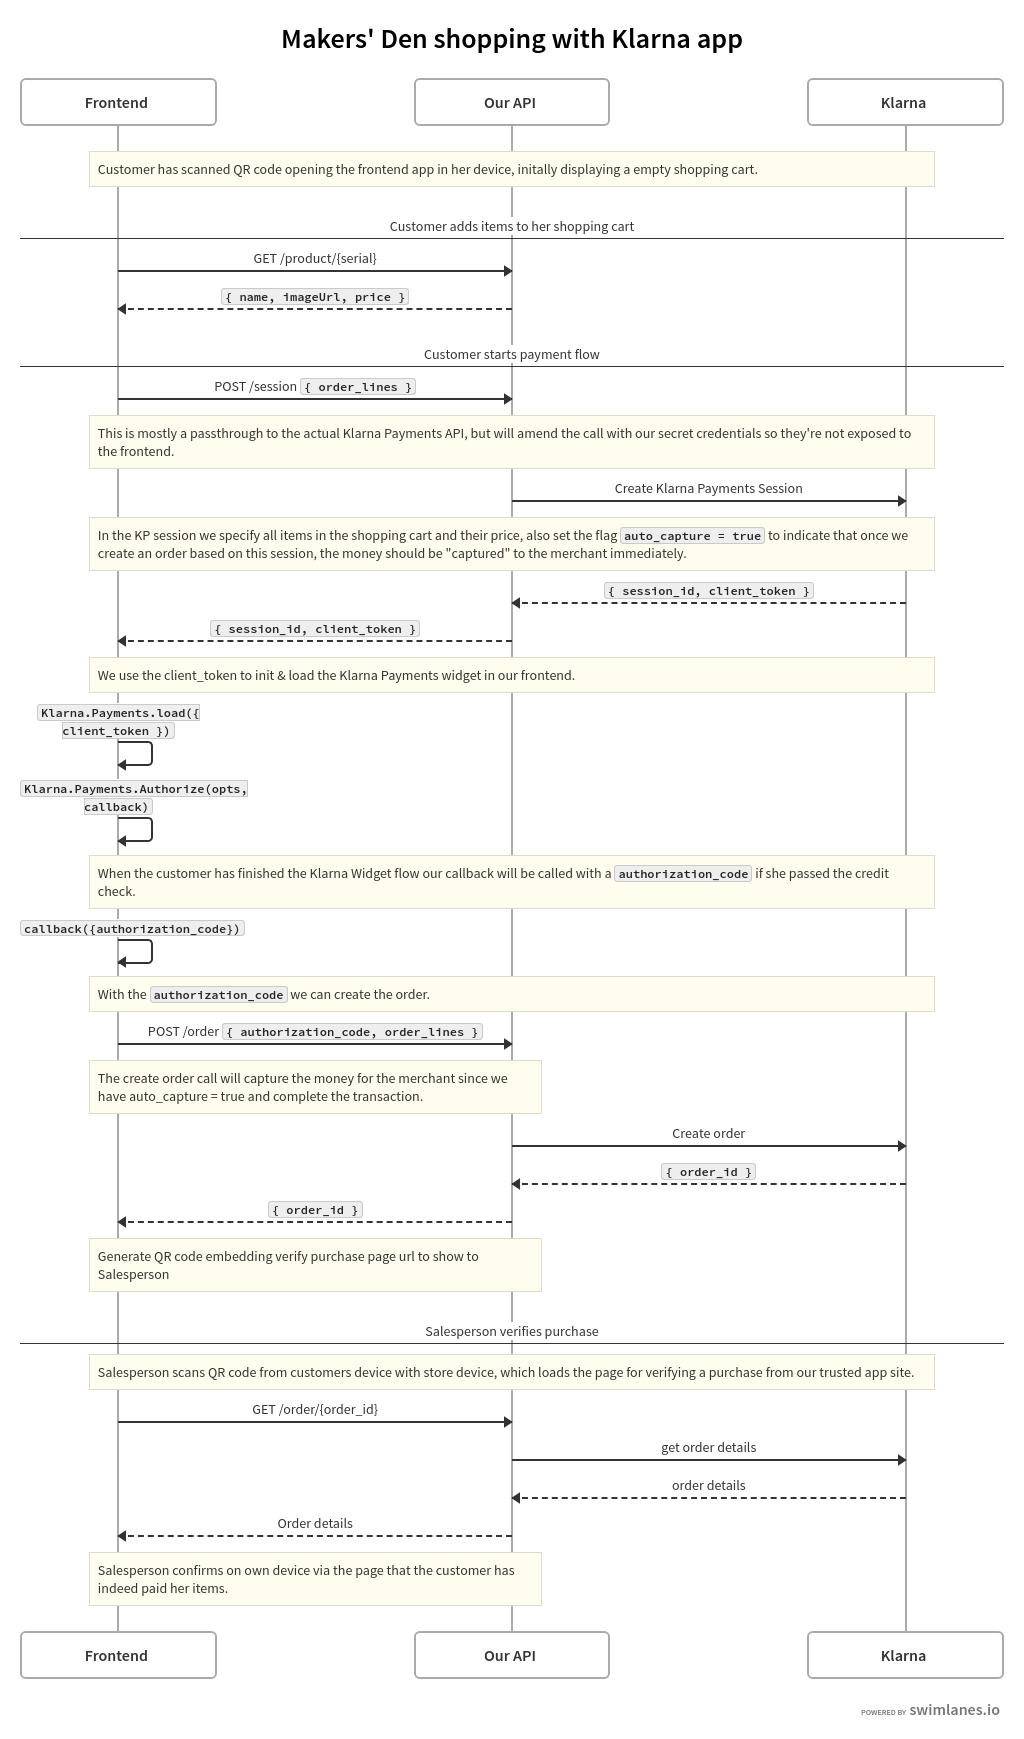
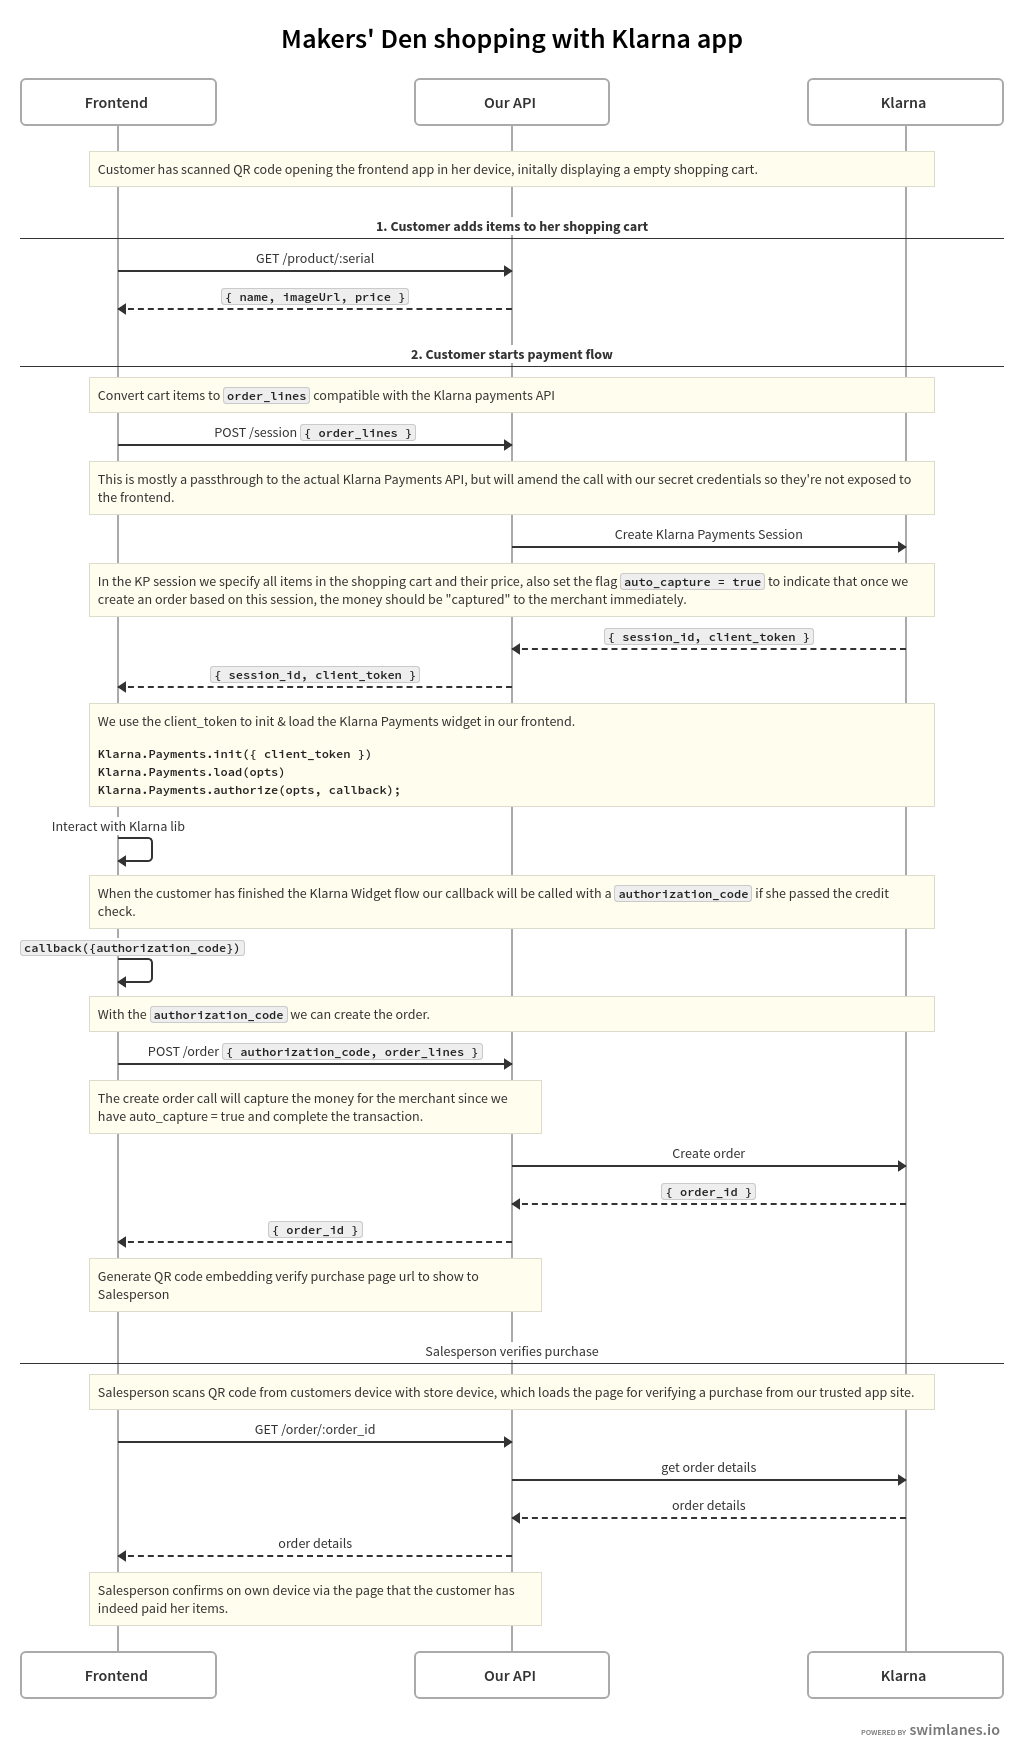
amendements to Klarna post

diff --git a/src/templates/blogPostTemplate.js b/src/templates/blogPostTemplate.js
@@ -129,10 +129,20 @@ const Content = styled.section`
       max-width: 31.5rem;
       margin-left: 0;
       margin-top: 1em;
+
+      &.right {
+        float: right;
+        margin-right: 0;
+        margin-left: 2em;
+      }
     `};
 
     ${media.aboveBigLaptop`
       margin-left: -5em;
+      &.right {
+        margin-left: 2em;
+        margin-right: -5em;
+      }
     `} p {
       font-family: ${font("display")};
       font-size: ${size(3)};

diff --git a/gatsby-config.js b/gatsby-config.js
@@ -46,7 +46,7 @@ module.exports = {
           {
             resolve: "gatsby-remark-images",
             options: {
-              maxWidth: 500
+              maxWidth: 800
             }
           }
         ]

diff --git a/src/posts/klarna_instore.md b/src/posts/klarna_instore.md
@@ -16,9 +16,9 @@ tags:
 
 ## Klarna?
 
-Millennials don’t like credit cards (check e.g. [moneyexpert](https://www.moneyexpert.com/credit-cards/millennials-and-credit-cards/)) because they’re afraid of getting into debt. They want to be in control of how they manage payments. **[Klarna](https://klarna.com)** showed up on the market and provided us with an alternative to financing without paying everything up front and they’ve been expanding fast.
+Millennials don’t like credit cards because they’re afraid of getting into debt. They want to be in control of how they manage payments. **[Klarna](https://klarna.com)** showed up on the market and provided us with an alternative to financing without paying everything up front and they’ve been expanding fast.
 
-## Klarna Example Integration How-to & Demo
+## Klarna Example Integration & Demo
 
 We’ve been creating a lot of various integrations towards Klarna APIs lately so I thought I’d do a small write up on how to do a simple in-store payment solution which allows you to shop and pay with your phone, selecting to pay later, whilst the store (aka the merchant) receives payment immediately.
 
@@ -29,21 +29,25 @@ Off we go!
 Imagine **[Makers’ Den](https://makersden.io)** opened a shoe store, selling only the very best shoes. Inside the store we have a promotion for paying with Klarna through a custom app which makes the shopping experience largely self-service, and will allow the customer to choose how to finance her shopping.
 <div class="shaded-images">
 
+### Prologue: The customer discovers our app
 ![Klarna concept 1](./klarna_concept1.png)
 
+### 1. Customer scans items, adding them to shopping cart
 ![Klarna concept 2](./klarna_concept2.png)
 
+### 2. Customer starts payment flow
 ![Klarna concept 3](./klarna_concept3.png)
 
 ![Klarna concept 4](./klarna_concept4.png)
 
+### 3. Salesperson verifies purchase
 ![Klarna concept 5](./klarna_concept5.png)
 
 </div>
 
 ## Technical details
 
-For the nitty gritty on how the Klarna APIs work please refer to [Klarna’s official docs](https://developers.klarna.com). We are using the Klarna Payments API, it’s the most flexible api currently and a lot of different scenarios can be implemented using it.
+For the nitty gritty on how the Klarna APIs work please refer to [Klarna’s official docs](https://developers.klarna.com). We are using the [Klarna Payments API](https://developers.klarna.com/documentation/klarna-payments/). It is the most flexible api and thus allows us to implement the most custom payment scenarios.
 
 The parts produced for this demo is a simple React frontend and a few cloud functions.
 
@@ -51,27 +55,44 @@ The parts produced for this demo is a simple React frontend and a few cloud func
 - One for the customer to scan barcodes, manage the shopping cart and pay using Klarna.
 - One for the salesperson to verify a customer's purchase.
 
-**A few cloud functions implementing the following:**
+**Cloud functions implementing the following:**
 - Fetching products based on serial numbers (mocked in our demo to a few hard-coded shoes).
-- Creating a payment session via the Klarna API for the customer.
-- Creating the final order, and fetching order information via the Klarna API.
+- Creating a payment session via the Klarna API  
+  https://developers.klarna.com/api/#payments-api-create-a-new-credit-session
+- Creating the final order which completes the transaction  
+  https://developers.klarna.com/api/#payments-api-create-a-new-order
+- Fetching order information via the Klarna API  
+  https://developers.klarna.com/api/#order-management-api-get-order
 
-## Sequence diagrams for our use cases
+## Sequence diagrams
+
+<div class="shaded-images">
 
 ![Klarna swimlanes](./klarna_swimlanes.png)
 
+</div>
 
 ## Show me the money!
 
-All the sources are found in a single repository here:
+<iframe style="margin: 0 auto" width="560" height="315" src="https://www.youtube.com/embed/6Ilvfu94NKk" frameborder="0" allow="accelerometer; autoplay; encrypted-media; gyroscope; picture-in-picture" allowfullscreen></iframe>
+
+All the sources are found in a single repository here:  
 https://github.com/kallebertell/makersden-klarna-instore
 
-To try the demo out now head here, https://makersden-klarna-instore.netlify.com/
-Or scan this QR code:
+To try the demo head here:  
+https://makersden-klarna-instore.netlify.com/  
+
+Or scan this QR code:  
+
+<div class="shaded-images" style="max-width: 400px; margin: 0 auto">
 
 ![Klarna QR Code](./klarna_qrcode.png)
 
+</div>
 
-Whilst this was a hypothetical in-store solution, you could basically use bits and pieces of this solution for any e-commerece site, or paying for lemonade at a lemonade stand. Lowering the bar for receiving payments makes all the difference - whether or not someone has cash on hand right now.
+<div class="quote2 right">
+Lowering the bar for receiving payments makes all the difference.
+</div>
 
-Get Smoooth.
+Whilst this was a hypothetical in-store solution, you could basically use bits and pieces of this solution for any e-commerce site, or paying for lemonade at a lemonade stand. Lowering the bar for receiving payments makes all the difference. Whether or not someone has cash on hand right now - you want your payments to be **smooth**.
+

diff --git a/src/posts/jamstack.md b/src/posts/jamstack.md
@@ -44,7 +44,11 @@ There are numerous ways you can let content managers create new content. You can
 
 Enter [**GatsbyJS**](https://www.gatsbyjs.org/). You can have your cake and eat it too. It’ll pre-generate html files based on your React components, and re-hydrate your app as a fully fledged React app once the page has loaded.
 
+<div style="max-width: 500px; margin: 0 auto;">
+
 ![JAMStack Gatsby end user experience](./jamstack_gatsby_end_user_experience.png)
+
+</div>
 
 ### Fine for sites, but what about APPS? We need data and custom apis.
 
@@ -61,8 +65,11 @@ For example:
 
 Many of these can be integrated with pure frontend integrations. If you do need something custom, consider a serverless lambda/cloud function and outsource the tedious and costly ops and scaling part of backends.
 
+<div style="max-width: 700px; margin: 0 auto;">
+
 ![JAMStack Gatsby and Netlify pipeline](./jamstack_gatsby_netlify.png)
 
+</div>
 ### That just leaves us a bunch of frontend work.
 
 Yep. If you ask me, Frontend is the new king (with some help from serverless offerings).
